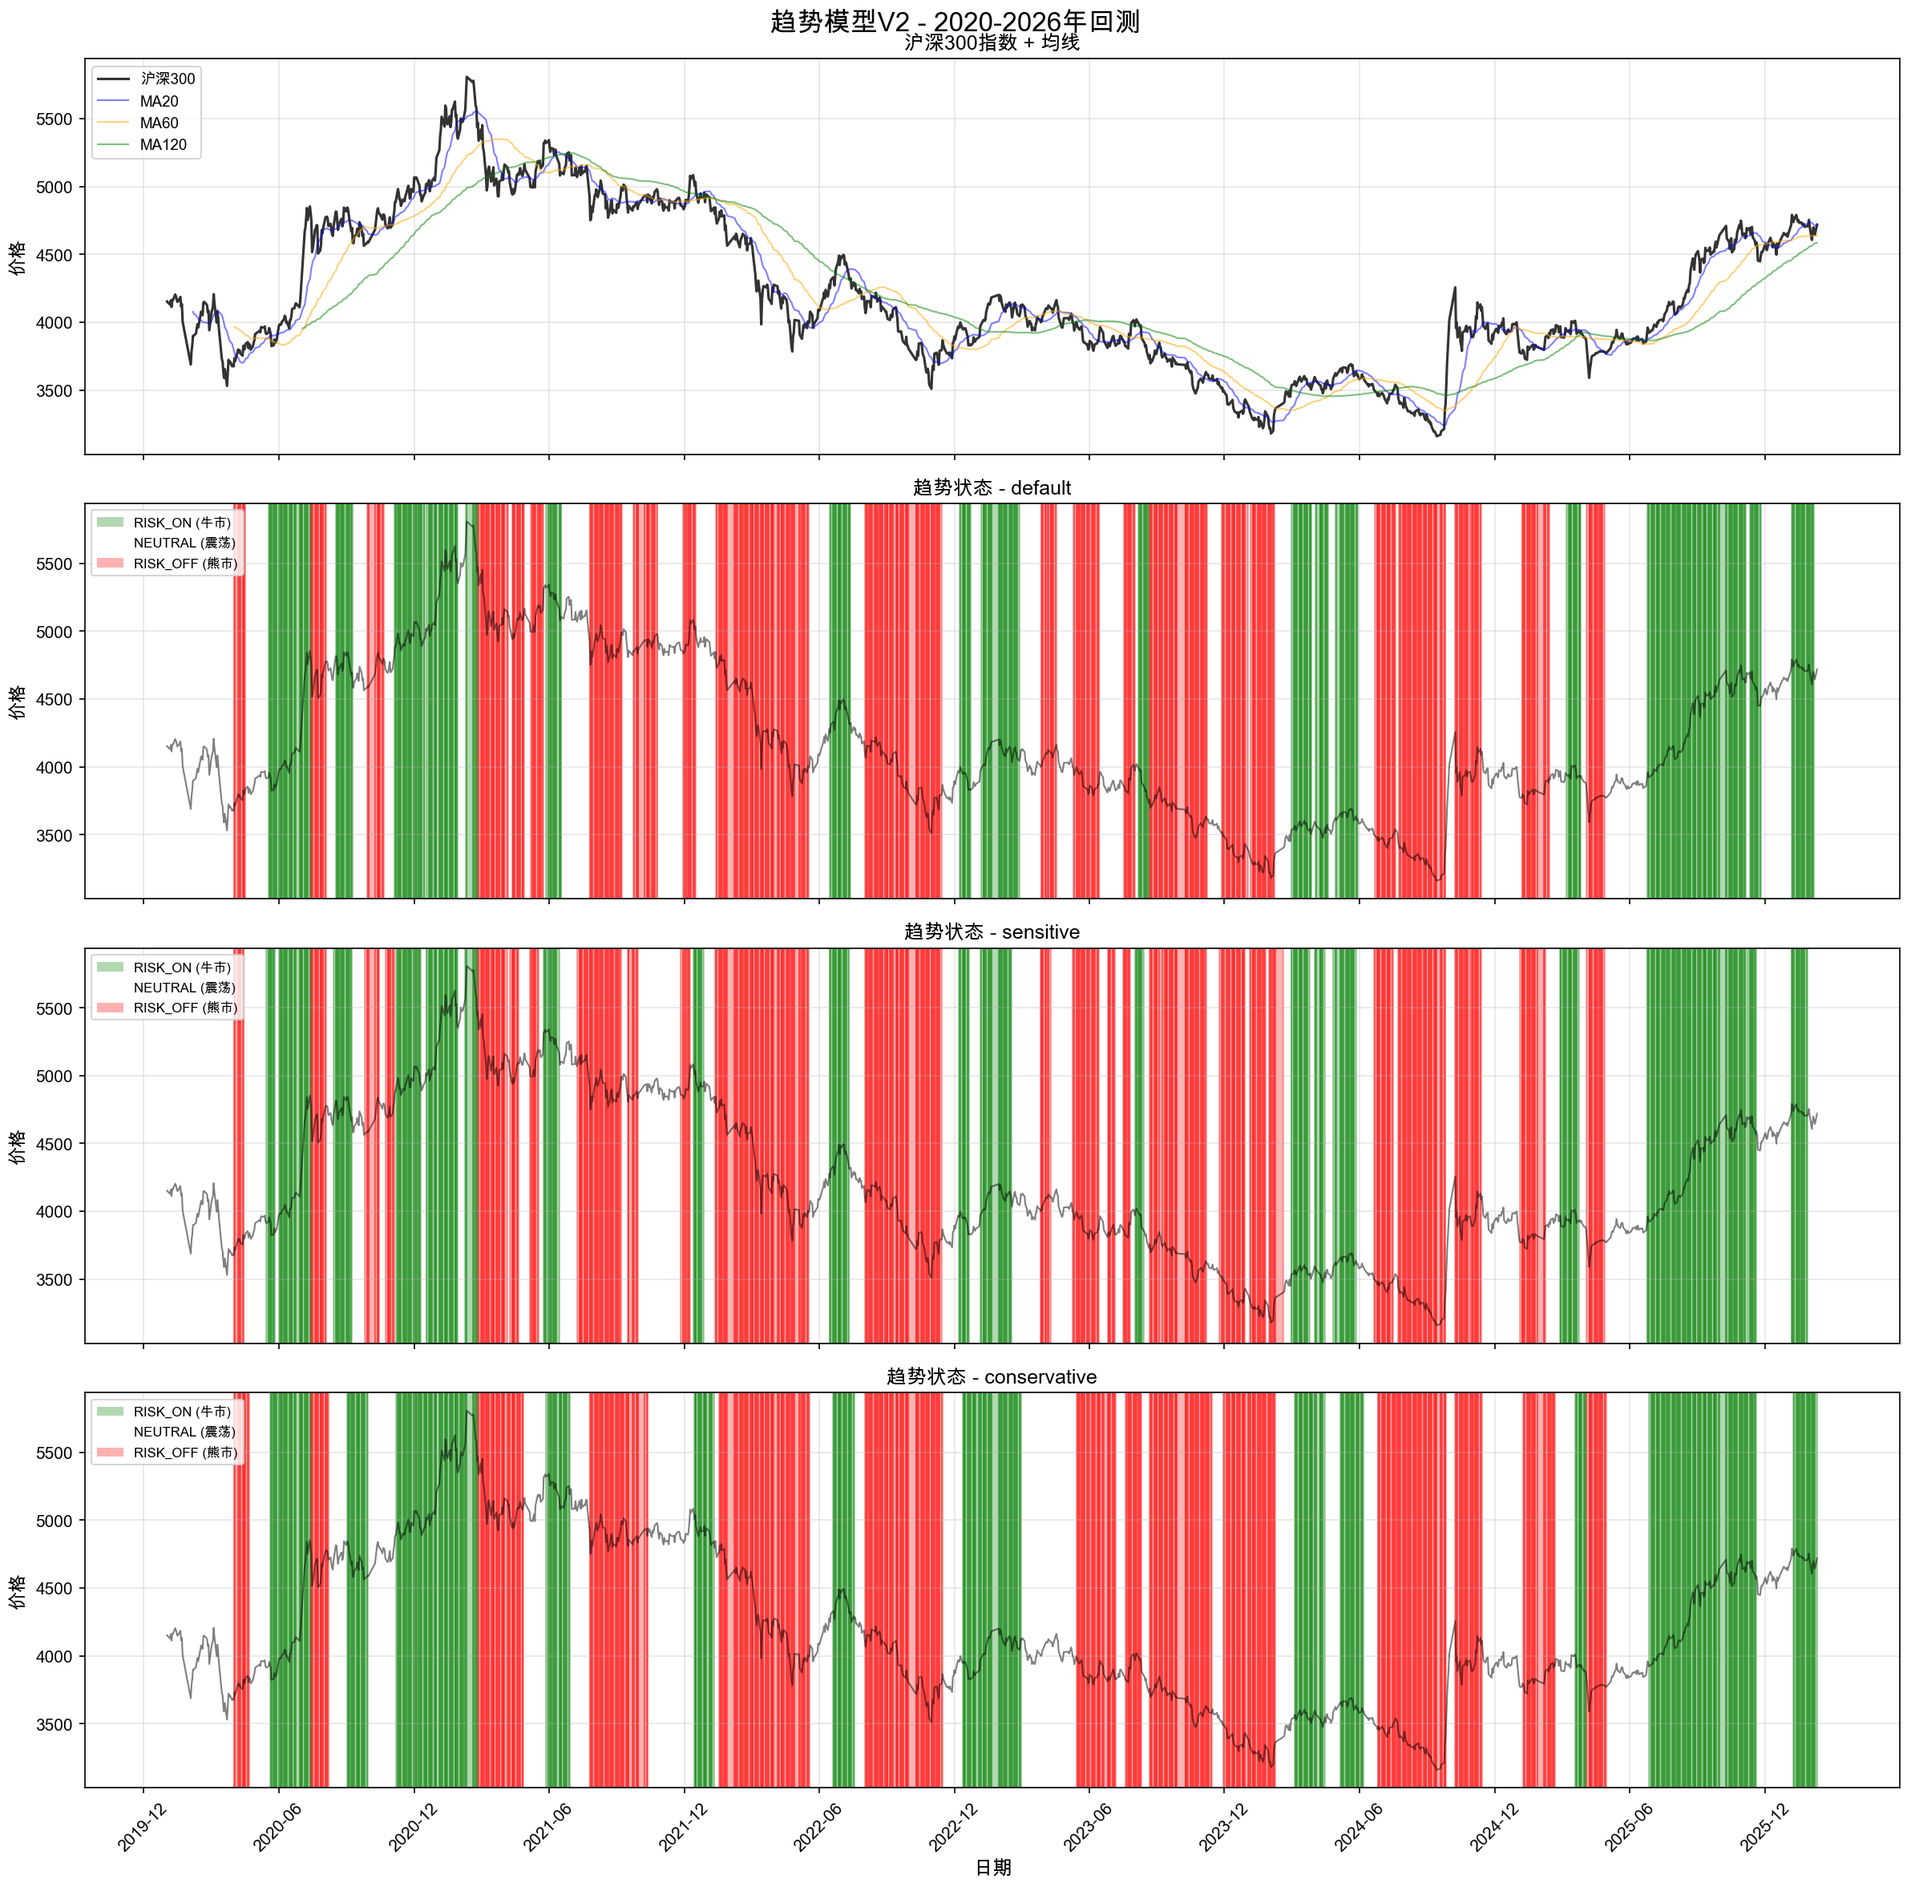
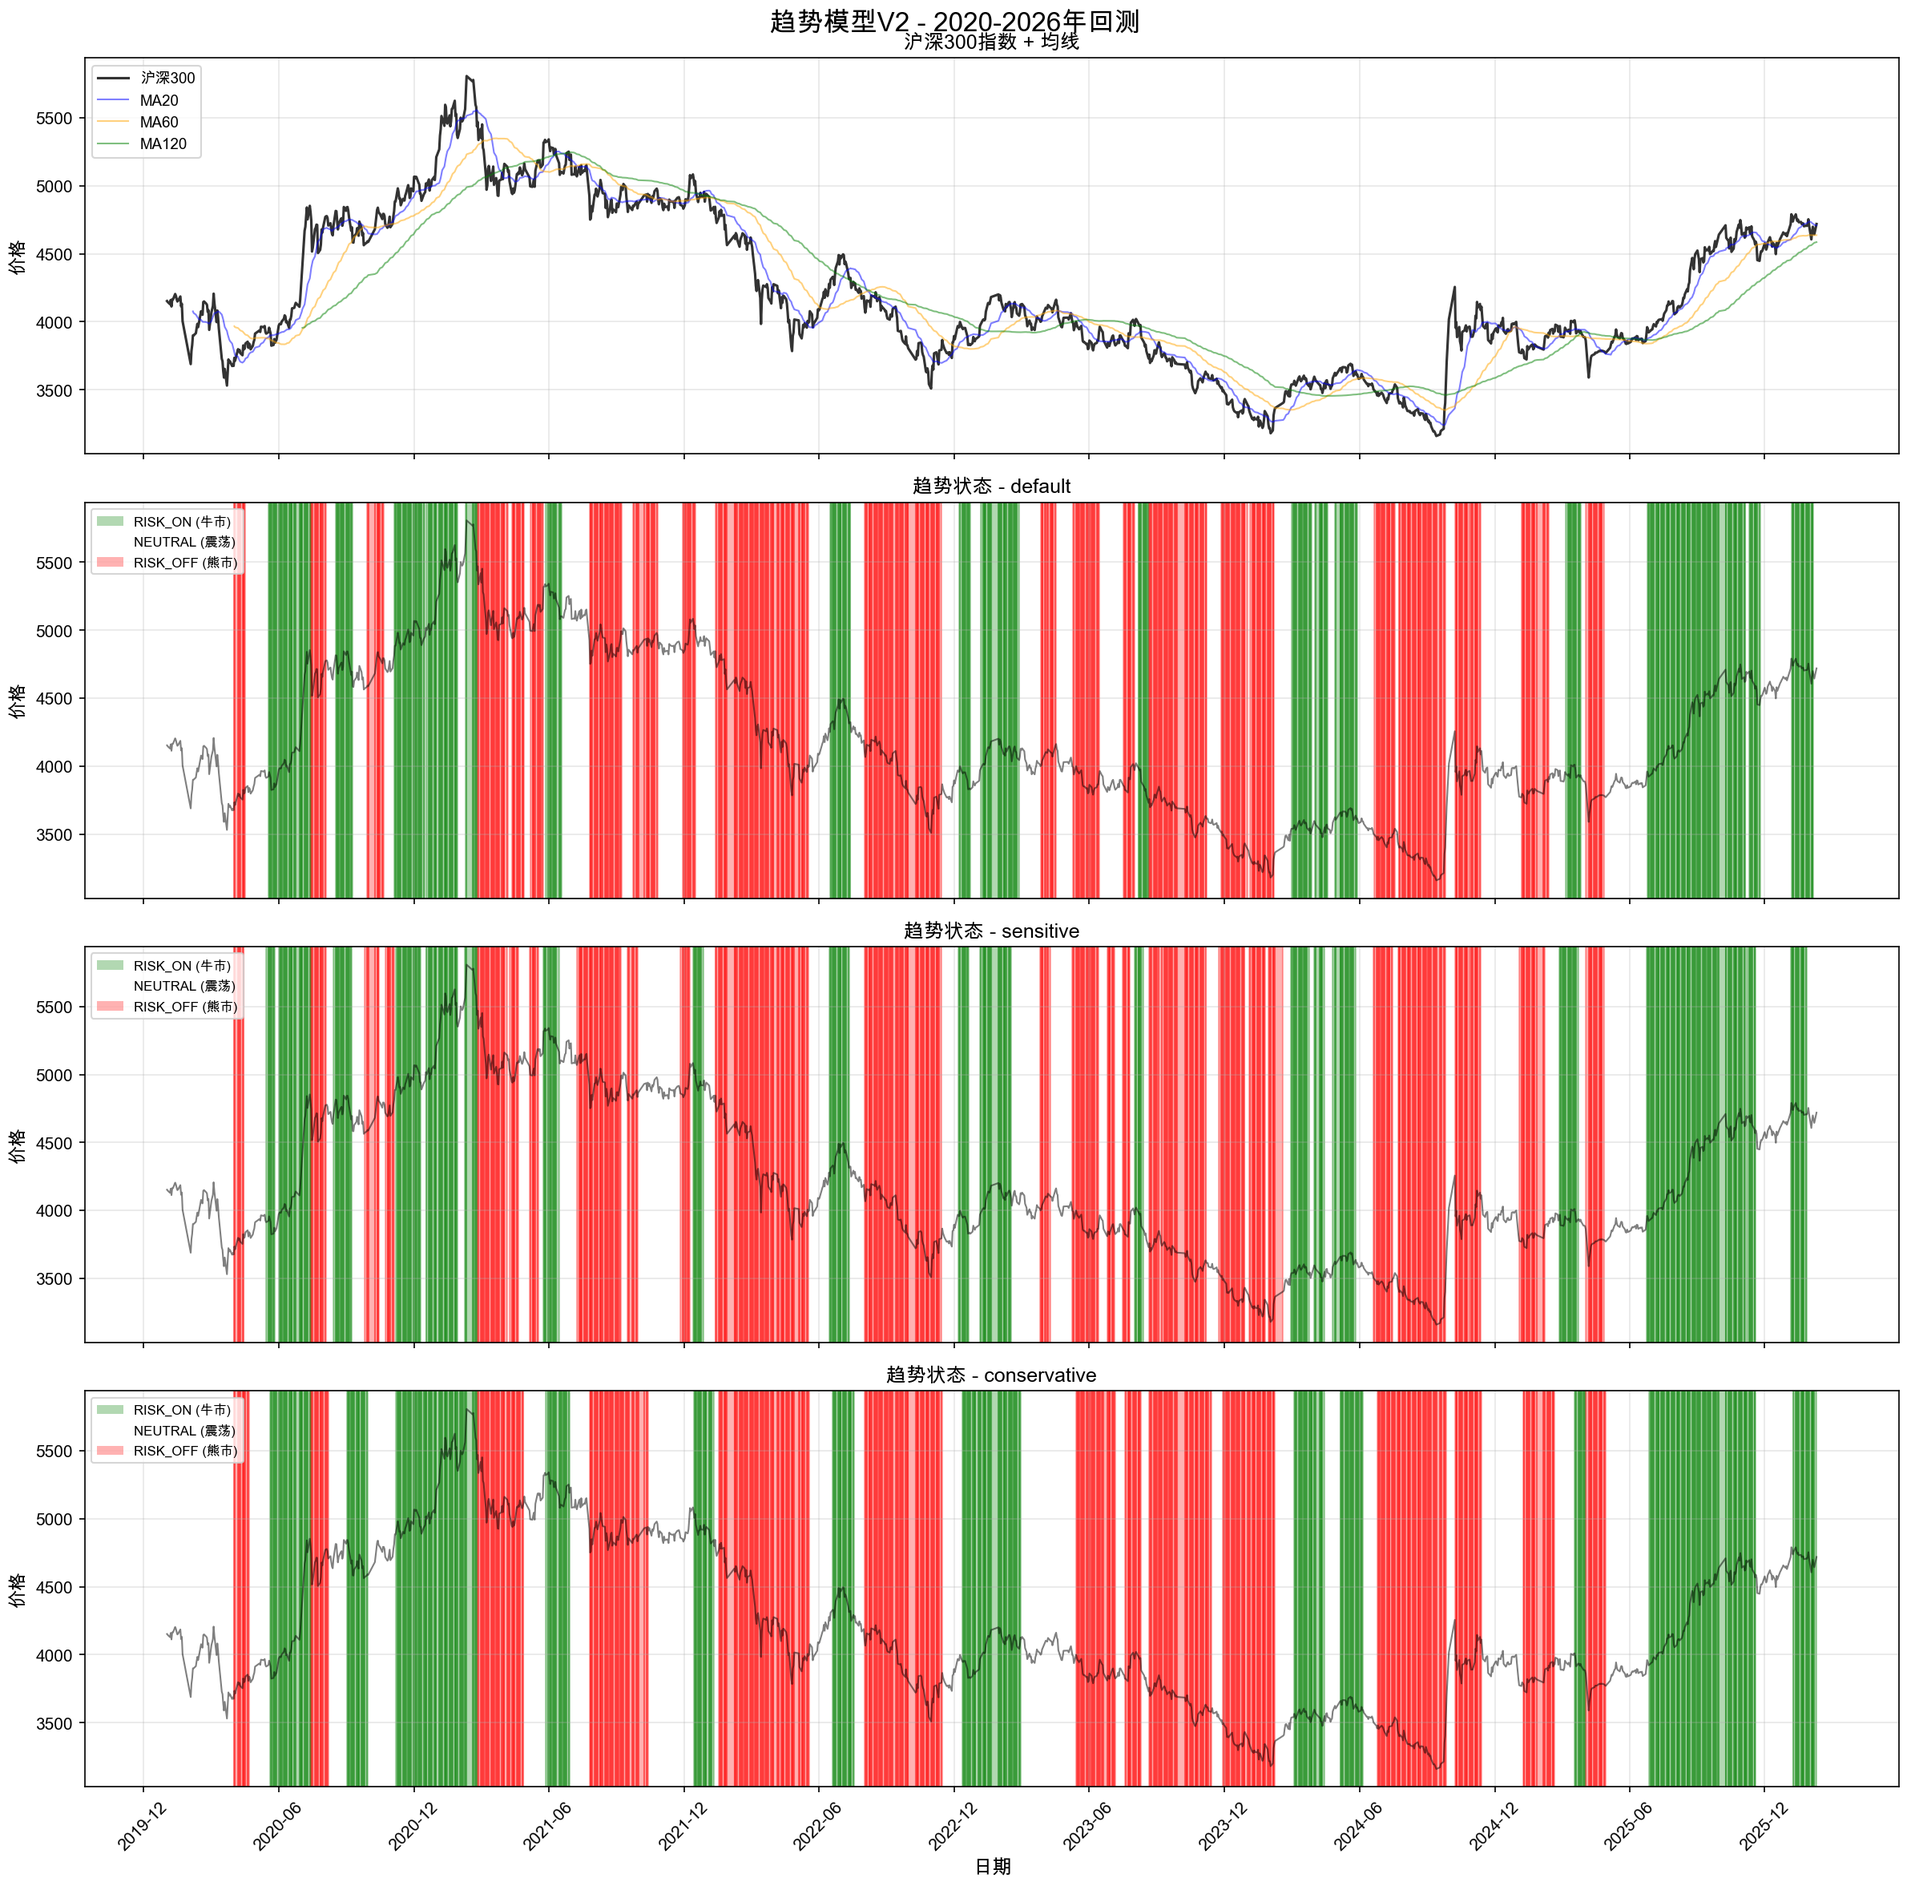
docs: 记录Regime模型问题诊断与样本分布分析
- 更新回测报告数据为统一配置(3/5/7)后的结果
- 记录Regime模型配置敏感性、样本分布不均衡等问题
- 添加时间衰减加权等解决方案到TODO
- 新增regime样本分布分析脚本

diff --git a/scripts/analyze_regime_samples.py b/scripts/analyze_regime_samples.py
@@ -1,0 +1,105 @@
+"""分析Regime样本分布"""
+import os, sys
+import pandas as pd
+import numpy as np
+
+sys.path.insert(0, os.path.abspath(os.path.join(os.path.dirname(__file__), "..")))
+
+from sage_core.trend.trend_model import TrendModelConfig, TrendModelRuleV2
+
+DATA_ROOT = os.path.join(os.path.dirname(__file__), "..", "data", "tushare")
+TRAIN_YEARS = [2020, 2021, 2022, 2023, 2024]
+
+def load_data():
+    idx = pd.read_parquet(os.path.join(DATA_ROOT, "index", "index_000300_SH_ohlc.parquet"))
+    idx["date"] = pd.to_datetime(idx["date"])
+    idx = idx.sort_values("date").reset_index(drop=True)
+
+    frames = []
+    for y in TRAIN_YEARS:
+        p = os.path.join(DATA_ROOT, "daily", f"daily_{y}.parquet")
+        if os.path.exists(p):
+            frames.append(pd.read_parquet(p))
+    stk = pd.concat(frames, ignore_index=True)
+    stk["trade_date"] = pd.to_datetime(stk["trade_date"], format="%Y%m%d")
+
+    return idx, stk
+
+def main():
+    print("加载数据...")
+    idx, stk = load_data()
+
+    # 用趋势模型打标签
+    cfg = TrendModelConfig(confirmation_periods=3, exit_tolerance=5, min_hold_periods=7)
+    trend = TrendModelRuleV2(cfg)
+
+    train_end = pd.Timestamp("2024-09-01")
+    idx_train = idx[idx["date"] < train_end].copy()
+    res = trend.predict(idx_train, return_history=True)
+
+    # 构建日期到状态的映射
+    d2s = dict(zip(pd.to_datetime(idx_train["date"]).values, res.diagnostics["states"]))
+
+    # 统计每日状态
+    dates = sorted(d2s.keys())
+    states = [d2s[d] for d in dates]
+
+    df_states = pd.DataFrame({"date": dates, "state": states})
+    df_states["year"] = df_states["date"].dt.year
+    df_states["month"] = df_states["date"].dt.to_period("M")
+
+    print(f"\n{'='*70}")
+    print("训练期间状态分布 (2020-2024)")
+    print(f"{'='*70}")
+
+    # 总体分布
+    total = len(df_states)
+    for state, name in [(0, "bear"), (1, "neutral"), (2, "bull")]:
+        cnt = (df_states["state"] == state).sum()
+        print(f"{name:8s}: {cnt:4d}天 ({cnt/total*100:5.1f}%)")
+
+    print(f"\n{'='*70}")
+    print("按年份分布")
+    print(f"{'='*70}")
+    print(f"{'年份':<8} {'bear':>8} {'neutral':>8} {'bull':>8} {'总天数':>8}")
+    print("-" * 70)
+
+    for year in TRAIN_YEARS:
+        if year >= 2025:
+            continue
+        year_data = df_states[df_states["year"] == year]
+        if len(year_data) == 0:
+            continue
+        bear = (year_data["state"] == 0).sum()
+        neutral = (year_data["state"] == 1).sum()
+        bull = (year_data["state"] == 2).sum()
+        total_days = len(year_data)
+        print(f"{year:<8} {bear:>8} {neutral:>8} {bull:>8} {total_days:>8}")
+
+    print(f"\n{'='*70}")
+    print("最近N个月的样本量分析")
+    print(f"{'='*70}")
+
+    for months in [6, 12, 24]:
+        cutoff = train_end - pd.DateOffset(months=months)
+        recent = df_states[df_states["date"] >= cutoff]
+
+        bear = (recent["state"] == 0).sum()
+        neutral = (recent["state"] == 1).sum()
+        bull = (recent["state"] == 2).sum()
+
+        print(f"\n最近{months}个月:")
+        print(f"  bear: {bear}天, neutral: {neutral}天, bull: {bull}天")
+
+        # 估算股票样本量（假设每天3000只股票）
+        print(f"  估算样本量: bear≈{bear*3000:,}, neutral≈{neutral*3000:,}, bull≈{bull*3000:,}")
+
+        # 评估是否足够
+        min_samples = 50000  # LightGBM建议最小样本量
+        print(f"  是否足够(>{min_samples:,}): ", end="")
+        print(f"bear={'✓' if bear*3000>min_samples else '✗'}, ", end="")
+        print(f"neutral={'✓' if neutral*3000>min_samples else '✗'}, ", end="")
+        print(f"bull={'✓' if bull*3000>min_samples else '✗'}")
+
+if __name__ == "__main__":
+    main()

diff --git a/docs/2.3 选股模型回测报告.md b/docs/2.3 选股模型回测报告.md
@@ -34,18 +34,18 @@
 | 策略 | 累计收益 | Sharpe | 最大回撤 | 胜率 | 期数 |
 |------|---------|--------|---------|------|------|
 | **单一模型** | -1.85% | 0.06 | -16.80% | 51.4% | 37 |
-| Regime模型 | -5.07% | -0.01 | -22.56% | 40.5% | 37 |
-| **趋势+单一** | **+1.62%** | 0.10 | **-11.67%** | 51.4% | 37 |
-| 趋势+Regime | +0.99% | 0.08 | -14.39% | 40.5% | 37 |
+| Regime模型 | -5.19% | -0.01 | -20.97% | 40.5% | 37 |
+| **趋势+单一** | **+0.89%** | 0.08 | **-8.52%** | 51.4% | 37 |
+| 趋势+Regime | -0.51% | 0.02 | -10.77% | 40.5% | 37 |
 | 沪深300 | **-40.61%** | — | — | — | — |
 
 **分Regime表现（每期平均收益）：**
 
 | 市场状态 | 单一模型 | Regime模型 | 趋势+单一 | 趋势+Regime | 期数 |
 |---------|---------|-----------|----------|------------|------|
-| bull | +0.63% | +0.63% | +0.63% | +0.63% | 7 |
-| neutral | -0.36% | -0.19% | -0.22% | -0.11% | 10 |
-| bear | +0.14% | -0.16% | +0.04% | -0.05% | 20 |
+| bull | -0.29% | -0.33% | -0.29% | -0.33% | 3 |
+| neutral | +0.33% | +0.30% | +0.20% | +0.18% | 14 |
+| bear | -0.01% | -0.19% | -0.00% | -0.06% | 20 |
 
 ### 2.2 区间二：2024-09 ~ 2026-01（牛市主导）
 
@@ -53,19 +53,19 @@
 
 | 策略 | 累计收益 | Sharpe | 最大回撤 | 胜率 | 期数 |
 |------|---------|--------|---------|------|------|
-| 单一模型 | +68.08% | 1.62 | -12.33% | 68.8% | 16 |
-| **Regime模型** | **+68.77%** | 1.53 | **-12.29%** | 62.5% | 16 |
-| 趋势+单一 | +23.65% | 1.24 | **-7.40%** | 68.8% | 16 |
-| 趋势+Regime | +21.95% | 1.13 | -9.02% | 62.5% | 16 |
+| **单一模型** | **+68.08%** | 1.62 | -12.33% | 68.8% | 16 |
+| Regime模型 | +49.17% | 1.37 | -12.49% | 62.5% | 16 |
+| 趋势+单一 | +22.24% | 1.11 | **-7.62%** | 68.8% | 16 |
+| 趋势+Regime | +14.67% | 0.82 | -9.76% | 62.5% | 16 |
 | 沪深300 | +44.88% | — | — | — | — |
 
 **分Regime表现（每期平均收益）：**
 
 | 市场状态 | 单一模型 | Regime模型 | 趋势+单一 | 趋势+Regime | 期数 |
 |---------|---------|-----------|----------|------------|------|
-| bull | +1.58% | +1.11% | +1.58% | +1.11% | 5 |
-| neutral | -0.08% | -0.08% | -0.05% | -0.05% | 6 |
-| bear | +10.02% | +10.74% | +3.01% | +3.22% | 5 |
+| bull | +0.20% | -0.16% | +0.20% | -0.16% | 6 |
+| neutral | +2.00% | +1.34% | +1.20% | +0.80% | 6 |
+| bear | +11.08% | +9.37% | +3.32% | +2.81% | 4 |
 
 ---
 
@@ -81,16 +81,43 @@
 - **结论：训练数据至少需要3年以上**
 
 ### 3.3 趋势仓位联动的价值
-- **回撤控制显著**：趋势联动将最大回撤从-16.80%降至-11.67%（熊市区间），从-12.33%降至-7.40%（牛市区间）
-- **熊市区间将亏损转为盈利**：单一模型-1.85% → 趋势+单一+1.62%
-- **牛市区间牺牲收益换回撤**：+68% → +24%，因为bear状态仅30%仓位但实际收益+10%/期
+- **回撤控制显著**：趋势联动将最大回撤从-16.80%降至-8.52%（熊市区间），从-12.33%降至-7.62%（牛市区间）
+- **熊市区间将亏损转为盈利**：单一模型-1.85% → 趋势+单一+0.89%
+- **牛市区间牺牲收益换回撤**：+68% → +22%，因为bear状态仅30%仓位但实际收益+11%/期
 - **结论：趋势联动适合风险厌恶型配置，需优化bear状态的仓位比例**
 
 ### 3.4 单一模型 vs Regime模型
 - 两个区间表现接近，Regime模型未展现明显优势
 - 熊市区间Regime模型更差（-5% vs -2%），可能因为训练数据不足导致子模型更弱
-- 牛市区间两者几乎持平（+68% vs +69%）
+- 牛市区间单一模型明显优于Regime（+68% vs +49%），Regime模型对配置敏感
 - **结论：当前Regime模型的价值有限，需更多数据和更精细的regime划分**
+
+### 3.5 趋势模型配置敏感性（2026-02-17 补充）
+
+将趋势模型配置从默认 (5/8/10) 统一为 (3/5/7) 后，区间二结果变化：
+
+| 策略 | 旧配置(5/8/10) | 新配置(3/5/7) | 变化 |
+|------|----------------|---------------|------|
+| 单一模型 | +68.08% | +68.08% | 不变 |
+| Regime模型 | +68.77% | +49.17% | **-28.5%** |
+| 趋势+单一 | +23.65% | +22.24% | -6.0% |
+| 趋势+Regime | +21.95% | +14.67% | -33.2% |
+
+状态分布变化：bull 5→6期, bear 5→4期。配置变更同时影响训练标签和推理选择，Regime模型存在双重依赖脆弱性。
+
+### 3.6 Regime训练样本分布问题（2026-02-17 补充）
+
+2020-2024训练期样本分布（基于沪深300趋势标签）：
+
+| 状态 | 天数 | 占比 | 主要来源年份 |
+|------|------|------|-------------|
+| bear | 509 | 44.1% | 2022(163), 2023(148) |
+| neutral | 401 | 34.7% | 2021(107), 2024(95) |
+| bull | 245 | 21.2% | 2020(111), 2024(72) |
+
+**核心问题**：等权训练下，2020年bull样本（111天）占bull总量45%，但2020年市场风格与2024年差异巨大，导致牛市专家模型学到陈旧模式。
+
+**解决方案**：时间衰减样本加权（指数衰减，半衰期~2年），使近期数据权重从37%提升至62%。
 
 ---
 

diff --git a/docs/2.6 Sage股票智能交易平台问题记录.md b/docs/2.6 Sage股票智能交易平台问题记录.md
@@ -19,9 +19,39 @@
 
 ---
 
+## 已解决问题（2026-02-17）
+
+### P1. 趋势模型配置不一致
+- **现象**：`backtest_multi_period.py` 和 `show_stock_picks.py` 使用 TrendModelConfig 默认值 (5/8/10)，而 `test_trend_model_v2.py` 使用 (3/5/7)，导致回测结果不可复现
+- **影响**：状态识别滞后，Regime模型训练标签与推理标签不一致
+- **修复**：统一为 (confirmation_periods=3, exit_tolerance=5, min_hold_periods=7)
+
+### P2. 行业映射逻辑错误
+- **现象**：`show_stock_picks.py` 直接读取 `sw_industry_l1.parquet` 做映射，未通过 `sw_index_member.parquet` 关联，导致 `backtest_picks.csv` 行业列全空
+- **修复**：改为 sw_index_member → sw_industry_l1 两表 join
+
+## 待解决问题（2026-02-17）
+
+### P3. Regime模型对配置高度敏感
+- **现象**：趋势模型配置从 (5/8/10) 改为 (3/5/7) 后，Regime模型累计收益从 +68.77% 降至 +49.17%（降幅28.5%），而单一模型几乎不变
+- **根因**：配置变更同时影响训练期 regime 标签和推理期 regime 选择，导致样本在三个专家模型间重新分配
+- **方案**：引入时间衰减样本加权，降低远期数据影响（见TODO P4）
+
+### P4. Regime训练样本分布不均衡
+- **现象**：2020-2024训练期 bear=44.1%, neutral=34.7%, bull=21.2%；bull样本主要来自2020年（111天），远期数据占比过高
+- **影响**：等权训练导致2020年陈旧bull模式主导牛市专家模型，2024年新模式被稀释
+- **方案**：
+  1. 时间衰减加权（指数衰减，半衰期~2年，近期数据权重从37%提升至62%）
+  2. 动态训练窗口（按regime分别选取最近N个月样本，即使窗口不统一也可保证样本新鲜度）
+  3. 固定 random_state 保证可复现性
+
+### P5. stock_basic.parquet 缺失
+- **现象**：`data/tushare/stock_basic.parquet` 不存在，导致选股清单中股票名称列为空
+- **方案**：补充下载 stock_basic 数据
+
 ## 进行中问题
-- 2年期国债收益率下载不完整  
-- 概念板块分页与断点续传  
+- 2年期国债收益率下载不完整
+- 概念板块分页与断点续传
 
 ---
 

diff --git a/docs/2.0 Sage股票智能交易平台TODO_LIST.md b/docs/2.0 Sage股票智能交易平台TODO_LIST.md
@@ -136,7 +136,10 @@
 - [x] Walk-Forward 评估框架（Purging + Embargo + 分组回测）
 - [x] IC 稳定性过滤（hit_rate ≥ 55%）
 - [x] Regime 软分配（样本权重：目标1.0/相邻0.3/对立0.05）
-- [x] 回测验证（2024-09 ~ 2026-01）：单一模型+100%, Regime+84%, 沪深300+45%
+- [x] 回测验证（2024-09 ~ 2026-01）：单一模型+68%, Regime+49%, 沪深300+45%
+- [ ] 时间衰减样本加权（指数衰减，半衰期~2年，近期数据权重62%）
+- [ ] 固定 random_state 保证 Regime 模型可复现性
+- [ ] 补充下载 stock_basic.parquet（选股清单股票名称）
 
 ### 政策/产业/概念信号模块
 - [x] 政府站点抓取（发改委/工信部/国务院/商务部/生态环境部/科技部/证监会/央行/财政部/国资委主站）
